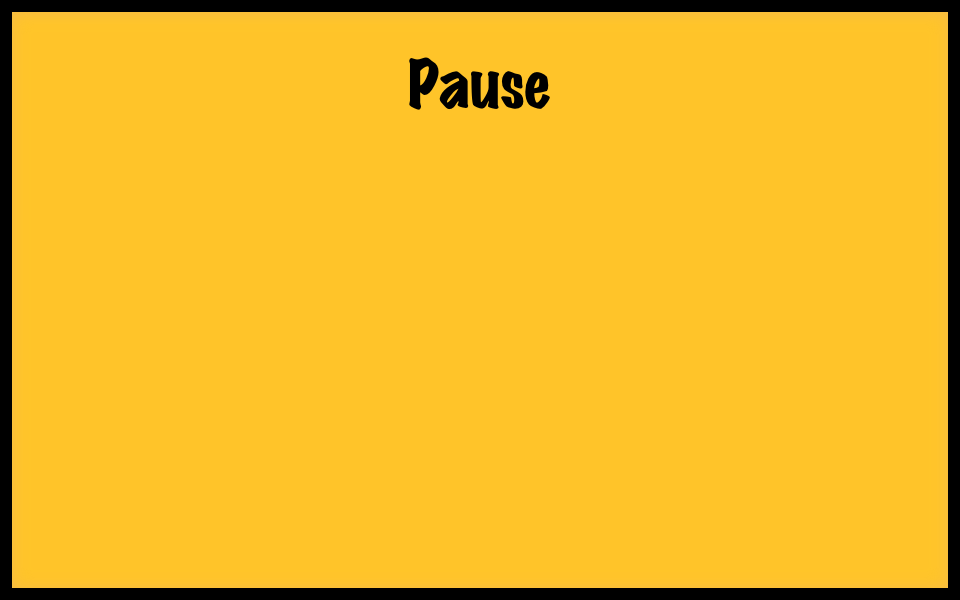
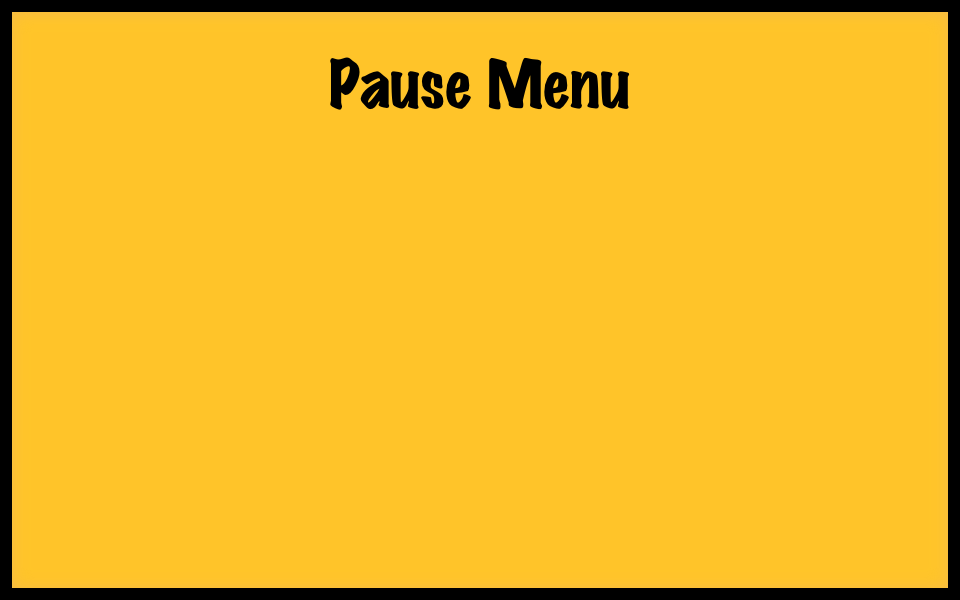
added pause menu, still able to move objects undereanth for some reason, will fix later

Changed region(s): [[0.3438, 0.09, 0.6562, 0.18]]

diff --git a/src/game.js b/src/game.js
@@ -63,55 +63,59 @@ var game = {
         //Code for pause Menu
         pauseButton = game.add.button(1170,10, 'pauseButton');
         pauseButton.width = 100;
-        pauseButton.height = 40;
+        pauseButton.height = 35;
         pauseButton.inputEnabled = true;
+
+        //load pause menu
+        var menu;
         pauseButton.events.onInputUp.add(
 
             function(){
-                game.pause = true;
-                var pauseMenu = game.add.sprite(160, 100, 'pauseScreen');
+                //game.paused doesn't work by itself, need to freeze everything
+                game.paused = true;
+                menu = game.add.sprite(160, 100, 'pauseScreen');
 
                 choiceLabel = game.add.text(w/2,h-150, 'Click Outside the Menu To Continue', { font:
-                    '30px Arial', fill: '#fff'});
+                    '30px Arial', fill: '#000'});
                 choiceLabel.anchor.setTo(0.5,0.5);
             }
-            );
+        );
 
         // if user presses outside, unpause
-        game.input.onDown.add(unpause, self);
+        this.input.onDown.add(unpause, self);
 
         function unpause(event){
         // Only act if paused
-        if(game.paused){
-            // Calculate the corners of the menu
-            var x1 = w/2 - 270/2, x2 = w/2 + 270/2,
-            y1 = h/2 - 180/2, y2 = h/2 + 180/2;
+            if(game.paused){
+                // Calculate the corners of the menu
+                var x1 = w/2 - 270/2, x2 = w/2 + 270/2,
+                y1 = h/2 - 180/2, y2 = h/2 + 180/2;
 
-            // Check if the click was inside the menu
-            if(event.x > x1 && event.x < x2 && event.y > y1 && event.y < y2 ){
-                // The choicemap is an array that will help us see which item was clicked
-                var choisemap = ['one', 'two', 'three', 'four', 'five', 'six'];
+                // Check if the click was inside the menu
+                if(event.x > x1 && event.x < x2 && event.y > y1 && event.y < y2 ){
+                    // The choicemap is an array that will help us see which item was clicked
+                    var choisemap = ['one', 'two', 'three', 'four', 'five', 'six'];
 
-                // Get menu local coordinates for the click
-                var x = event.x - x1,
-                y = event.y - y1;
+                    // Get menu local coordinates for the click
+                    var x = event.x - x1,
+                    y = event.y - y1;
 
-                // Calculate the choice 
-                var choise = Math.floor(x / 90) + 3*Math.floor(y / 90);
+                    // Calculate the choice 
+                    var choise = Math.floor(x / 90) + 3*Math.floor(y / 90);
 
-                // Display the choice
-                choiseLabel.text = 'You chose menu item: ' + choisemap[choise];
+                    // Display the choice
+                    choiseLabel.text = 'You chose menu item: ' + choisemap[choise];
+                }
+                else{
+                    // Remove the menu and the label
+                    menu.destroy();
+                    choiceLabel.destroy();
+
+                    // Unpause the game
+                    game.paused = false;
+                }
             }
-            else{
-                // Remove the menu and the label
-                menu.destroy();
-                choiseLabel.destroy();
-
-                // Unpause the game
-                game.paused = false;
-            }
-        }
-    };
+        };
 
 
         //music
